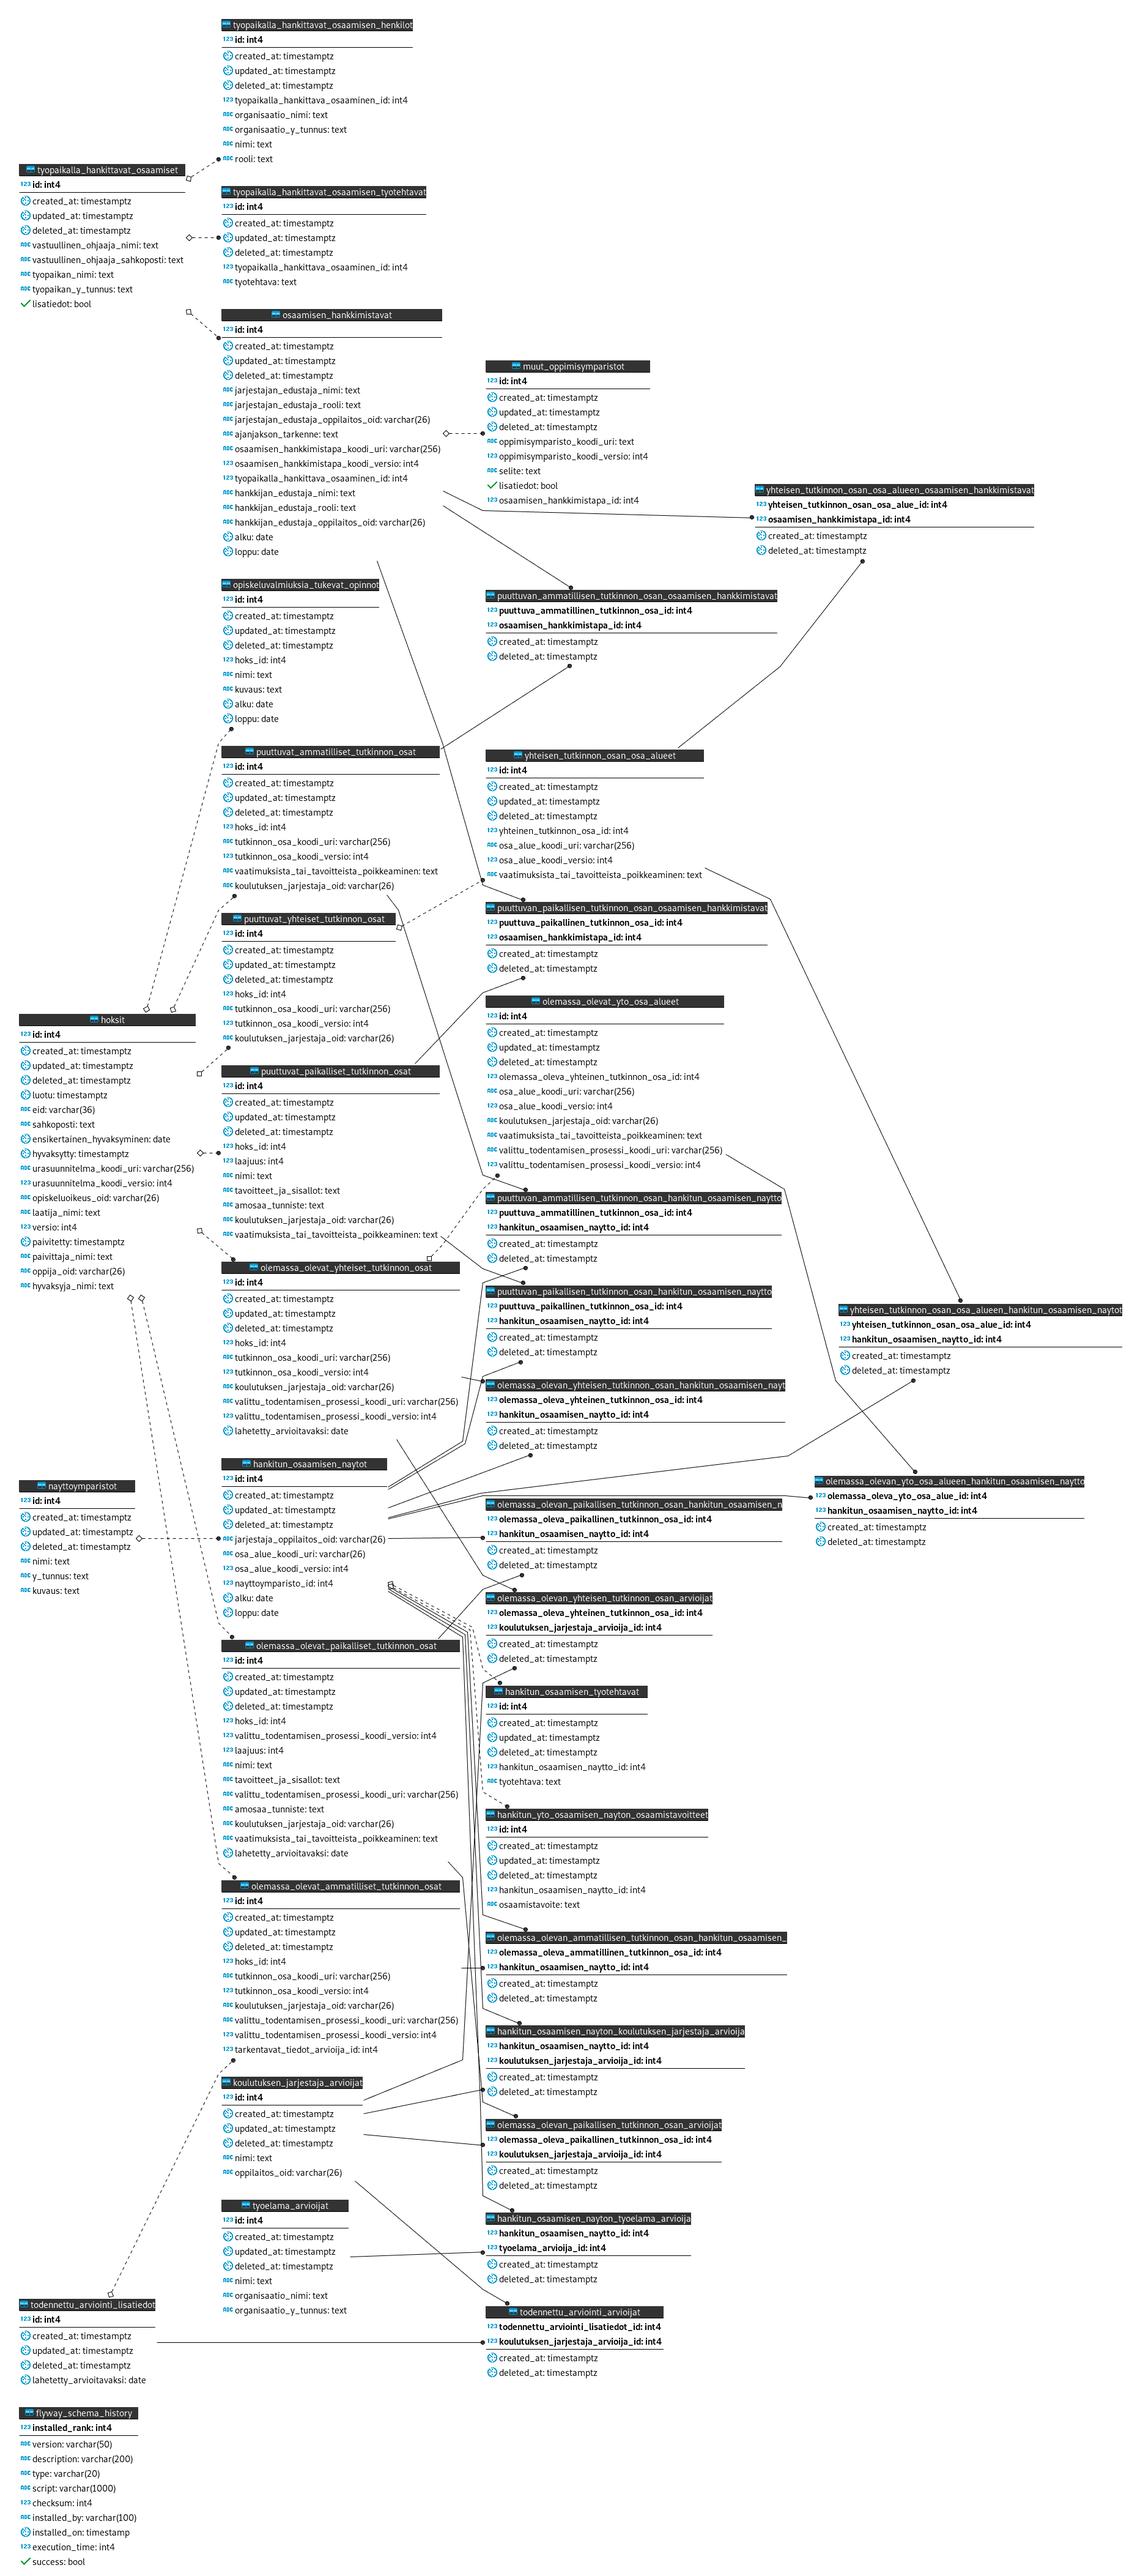
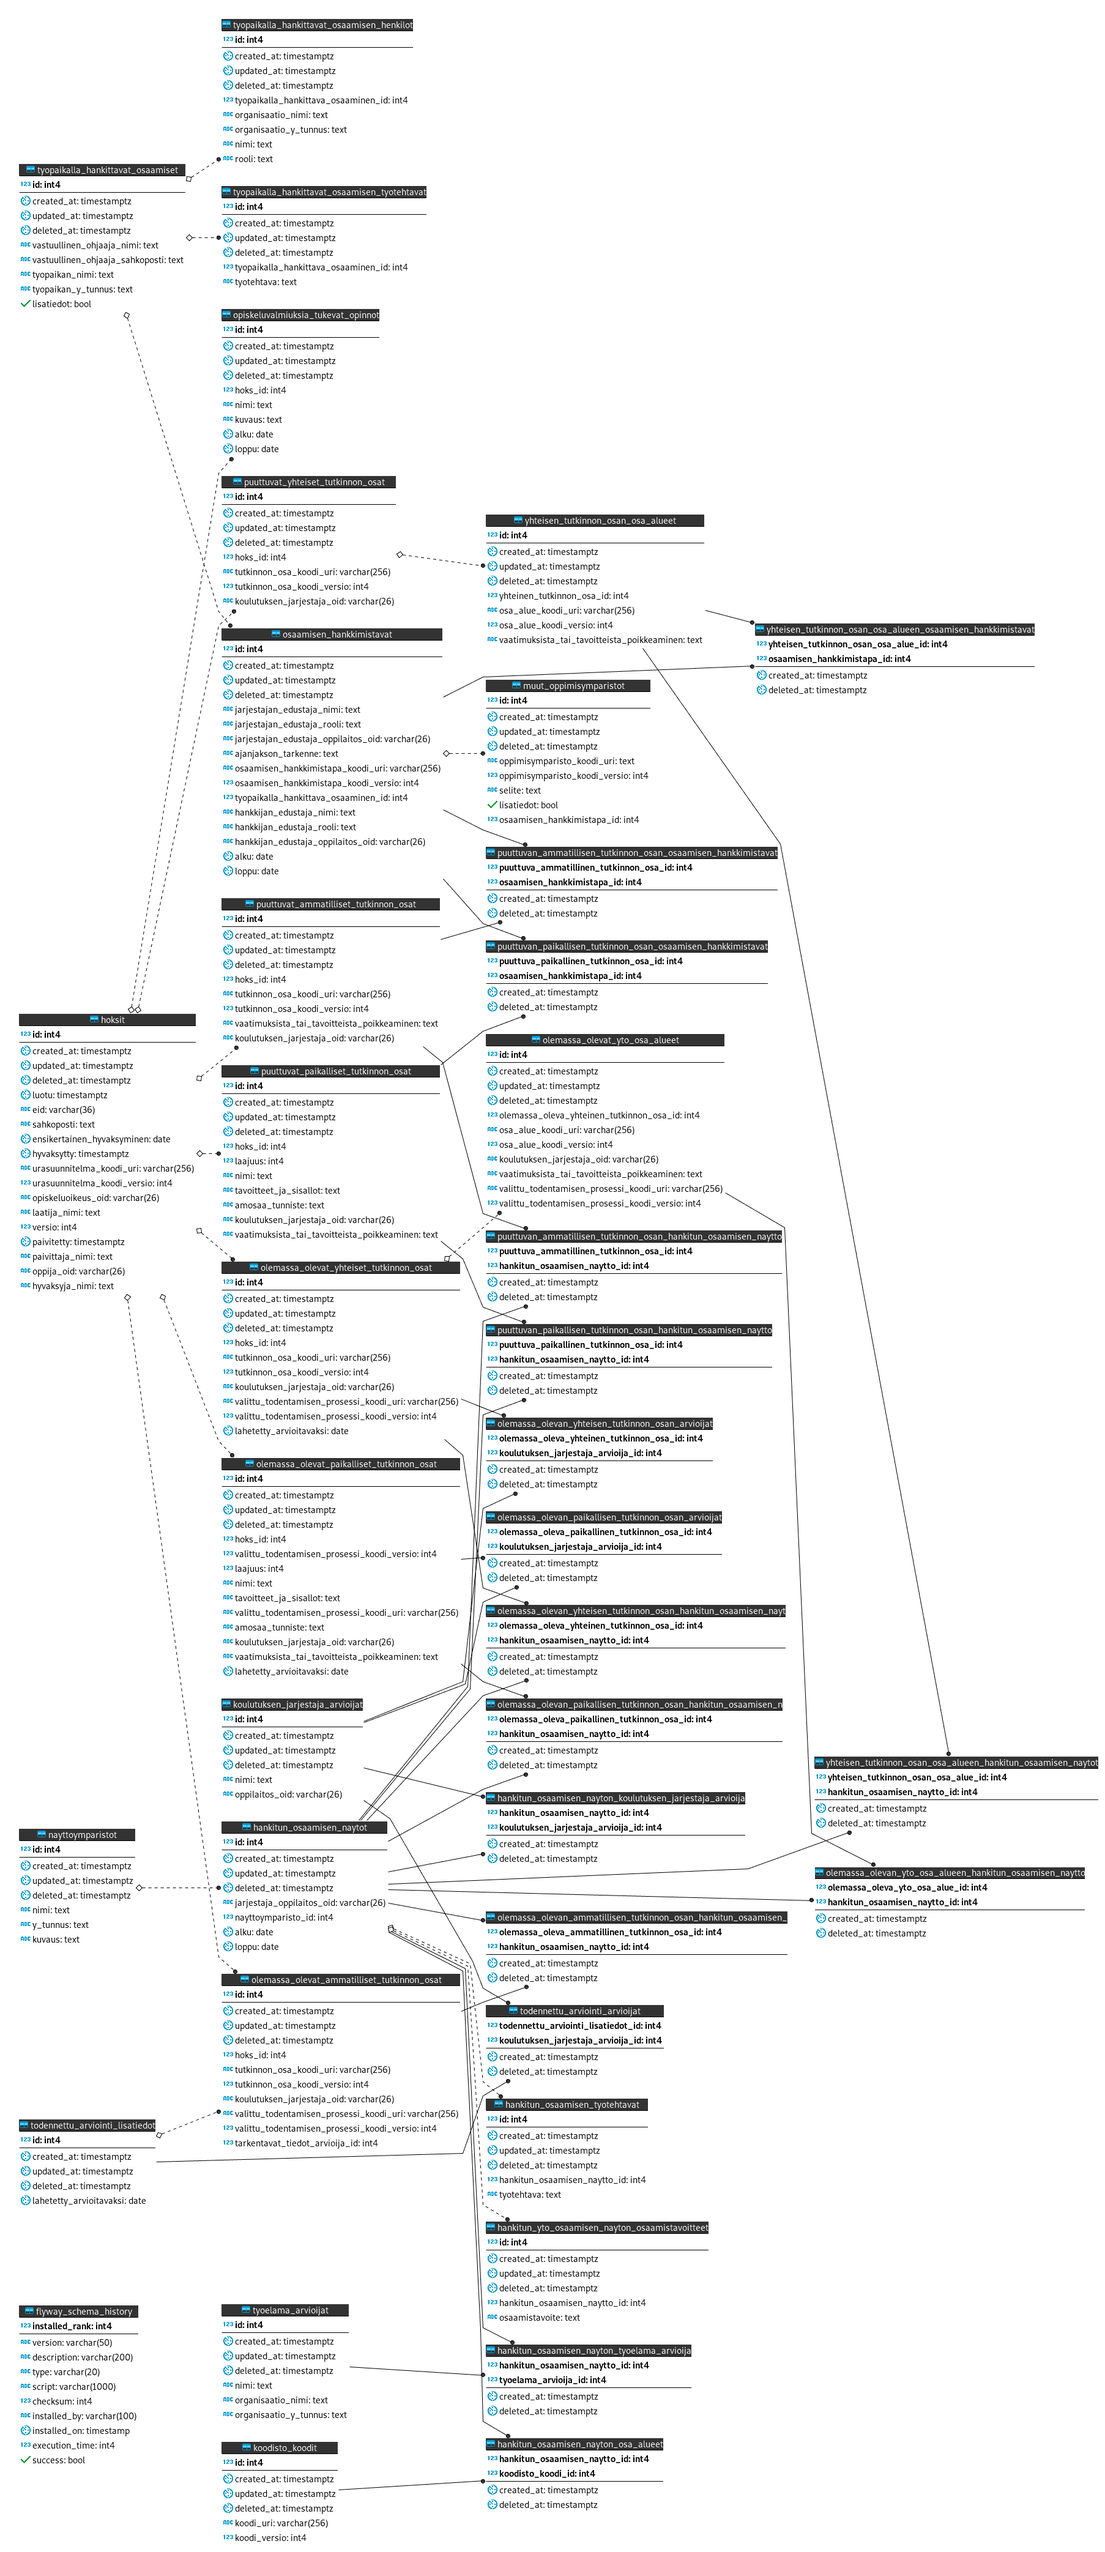
Generate docs

diff --git a/resources/public/hoks-doc/index.html b/resources/public/hoks-doc/index.html
@@ -1,4 +1,4 @@
-<!doctype html><html lang="fi"><head><meta charset="utf-8" /><title>eHOKS RESTful kehitysdokumentaatio</title><style>table {border-collapse: collapse;}table, th, td {border: 1px solid black;}.model {border-top: 1px solid gray;}</style><link href="https://stackpath.bootstrapcdn.com/bootstrap/4.2.1/css/bootstrap.min.css" rel="stylesheet" /></head><div class="container"><div><h1>HOKS doc</h1><p>Automaattisesti generoitu dokumentaatiotiedosto HOKS-tietomallinesittämiseen.</p><p>Tämä dokumentaatio keskittyy toistaiseksi ainoastaan HOKS-tietomallinesittämiseen.</p><p>Katso myös <a href="https://github.com/Opetushallitus/ehoks/blob/master/doc/hoks.md">HOKS API doc</a> dokumentaatio.</p><p>Generoitu 11.04.2019 09.36</p></div><div><div><div><div class="model" id="HOKSModel"><div><h3>HOKSModel</h3><p>Henkilökohtainen osaamisen kehittämissuunnitelmadokumentti</p></div><table><tr><th>Nimi</th><th>Selite</th><th>Luku</th><th>Luonti</th><th>Päivitys</th><th>Osapäivitys</th></tr><tr><td>urasuunnitelma-koodi-versio</td><td>Opiskelijan tavoitteen Koodisto-koodin versio</td><td><span>Kokonaisluku, valinnainen</span></td><td><span>Kokonaisluku, valinnainen</span></td><td><span>Kokonaisluku, valinnainen</span></td><td><span>Kokonaisluku, valinnainen</span></td></tr><tr><td>ensikertainen-hyvaksyminen</td><td>HOKS-dokumentin ensimmäinen hyväksymisaika
+<!doctype html><html lang="fi"><head><meta charset="utf-8" /><title>eHOKS RESTful kehitysdokumentaatio</title><style>table {border-collapse: collapse;}table, th, td {border: 1px solid black;}.model {border-top: 1px solid gray;}</style><link href="https://stackpath.bootstrapcdn.com/bootstrap/4.2.1/css/bootstrap.min.css" rel="stylesheet" /></head><div class="container"><div><h1>HOKS doc</h1><p>Automaattisesti generoitu dokumentaatiotiedosto HOKS-tietomallinesittämiseen.</p><p>Tämä dokumentaatio keskittyy toistaiseksi ainoastaan HOKS-tietomallinesittämiseen.</p><p>Katso myös <a href="https://github.com/Opetushallitus/ehoks/blob/master/doc/hoks.md">HOKS API doc</a> dokumentaatio.</p><p>Generoitu 15.04.2019 12.28</p></div><div><div><div><div class="model" id="HOKSModel"><div><h3>HOKSModel</h3><p>Henkilökohtainen osaamisen kehittämissuunnitelmadokumentti</p></div><table><tr><th>Nimi</th><th>Selite</th><th>Luku</th><th>Luonti</th><th>Päivitys</th><th>Osapäivitys</th></tr><tr><td>urasuunnitelma-koodi-versio</td><td>Opiskelijan tavoitteen Koodisto-koodin versio</td><td><span>Kokonaisluku, valinnainen</span></td><td><span>Kokonaisluku, valinnainen</span></td><td><span>Kokonaisluku, valinnainen</span></td><td><span>Kokonaisluku, valinnainen</span></td></tr><tr><td>ensikertainen-hyvaksyminen</td><td>HOKS-dokumentin ensimmäinen hyväksymisaika
                                 muodossa YYYY-MM-DD</td><td><span>Päivämäärä, pakollinen</span></td><td><span>Päivämäärä, pakollinen</span></td><td><span>Päivämäärä, pakollinen</span></td><td><span>Päivämäärä, valinnainen</span></td></tr><tr><td>olemassa-olevat-ammatilliset-tutkinnon-osat</td><td>Olemassa oleva ammatillinen osaaminen</td><td><span><span>[<a href="https://github.com/Opetushallitus/ehoks/blob/master/doc/hoks.md#OlemassaOlevaAmmatillinenTutkinnonOsa">OlemassaOlevaAmmatillinenTutkinnonOsa</a>]</span>, valinnainen</span></td><td><span><span>[<a href="https://github.com/Opetushallitus/ehoks/blob/master/doc/hoks.md#OlemassaOlevaAmmatillinenTutkinnonOsa">OlemassaOlevaAmmatillinenTutkinnonOsa</a>]</span>, valinnainen</span></td><td><span><span>[<a href="https://github.com/Opetushallitus/ehoks/blob/master/doc/hoks.md#OlemassaOlevaAmmatillinenTutkinnonOsa">OlemassaOlevaAmmatillinenTutkinnonOsa</a>]</span>, valinnainen</span></td><td><span><span>[<a href="https://github.com/Opetushallitus/ehoks/blob/master/doc/hoks.md#OlemassaOlevaAmmatillinenTutkinnonOsa">OlemassaOlevaAmmatillinenTutkinnonOsa</a>]</span>, valinnainen</span></td></tr><tr><td>sahkoposti</td><td>Oppijan sähköposti, merkkijono.</td><td><span>Merkkijono, valinnainen</span></td><td><span>Merkkijono, valinnainen</span></td><td><span>Merkkijono, valinnainen</span></td><td><span>Merkkijono, valinnainen</span></td></tr><tr><td>luotu</td><td>HOKS-dokumentin luontiaika muodossa YYYY-MM-DDTHH:mm:ss.sssZ</td><td><span>Aikaleima, valinnainen</span></td><td><span>Aikaleima, valinnainen</span></td><td><span>Aikaleima, valinnainen</span></td><td><span>Aikaleima, valinnainen</span></td></tr><tr><td>puuttuvat-paikalliset-tutkinnon-osat</td><td>Puuttuvat paikallisen tutkinnon osat</td><td><span><span>[<a href="https://github.com/Opetushallitus/ehoks/blob/master/doc/hoks.md#PuuttuvaPaikallinenTutkinnonOsa">PuuttuvaPaikallinenTutkinnonOsa</a>]</span>, valinnainen</span></td><td><span><span>[<a href="https://github.com/Opetushallitus/ehoks/blob/master/doc/hoks.md#PuuttuvaPaikallinenTutkinnonOsa">PuuttuvaPaikallinenTutkinnonOsa</a>]</span>, valinnainen</span></td><td><span><span>[<a href="https://github.com/Opetushallitus/ehoks/blob/master/doc/hoks.md#PuuttuvaPaikallinenTutkinnonOsa">PuuttuvaPaikallinenTutkinnonOsa</a>]</span>, valinnainen</span></td><td><span><span>[<a href="https://github.com/Opetushallitus/ehoks/blob/master/doc/hoks.md#PuuttuvaPaikallinenTutkinnonOsa">PuuttuvaPaikallinenTutkinnonOsa</a>]</span>, valinnainen</span></td></tr><tr><td>urasuunnitelma-koodi-uri</td><td>Opiskelijan tavoitteen Koodisto-koodi-URI, koodisto
     Urasuunnitelma, muotoa urasuunnitelma_xxxx, esim.
     urasuunnitelma_0001</td><td><span>#"^urasuunnitelma_\d{4}$", valinnainen</span></td><td><span>#"^urasuunnitelma_\d{4}$", valinnainen</span></td><td><span>#"^urasuunnitelma_\d{4}$", valinnainen</span></td><td><span>#"^urasuunnitelma_\d{4}$", valinnainen</span></td></tr><tr><td>puuttuvat-ammatilliset-tutkinnon-osat</td><td>Puuttuvan ammatillisen osaamisen hankkimisen tiedot</td><td><span><span>[<a href="https://github.com/Opetushallitus/ehoks/blob/master/doc/hoks.md#PuuttuvaAmmatillinenOsaaminen">PuuttuvaAmmatillinenOsaaminen</a>]</span>, valinnainen</span></td><td><span><span>[<a href="https://github.com/Opetushallitus/ehoks/blob/master/doc/hoks.md#PuuttuvaAmmatillinenOsaaminen">PuuttuvaAmmatillinenOsaaminen</a>]</span>, valinnainen</span></td><td><span><span>[<a href="https://github.com/Opetushallitus/ehoks/blob/master/doc/hoks.md#PuuttuvaAmmatillinenOsaaminen">PuuttuvaAmmatillinenOsaaminen</a>]</span>, valinnainen</span></td><td><span><span>[<a href="https://github.com/Opetushallitus/ehoks/blob/master/doc/hoks.md#PuuttuvaAmmatillinenOsaaminen">PuuttuvaAmmatillinenOsaaminen</a>]</span>, valinnainen</span></td></tr><tr><td>hyvaksytty</td><td>HOKS-dokumentin hyväksymisaika muodossa YYYY-MM-DDTHH:mm:ss.sssZ</td><td><span>Aikaleima, valinnainen</span></td><td><span>Aikaleima, valinnainen</span></td><td><span>Aikaleima, valinnainen</span></td><td><span>Aikaleima, valinnainen</span></td></tr><tr><td>olemassa-olevat-yhteiset-tutkinnon-osat</td><td>Olemassa olevat yhteiset tutkinnon osat (YTO)</td><td><span><span>[<a href="https://github.com/Opetushallitus/ehoks/blob/master/doc/hoks.md#OlemassaOlevaYhteinenTutkinnonOsa">OlemassaOlevaYhteinenTutkinnonOsa</a>]</span>, valinnainen</span></td><td><span><span>[<a href="https://github.com/Opetushallitus/ehoks/blob/master/doc/hoks.md#OlemassaOlevaYhteinenTutkinnonOsa">OlemassaOlevaYhteinenTutkinnonOsa</a>]</span>, valinnainen</span></td><td><span><span>[<a href="https://github.com/Opetushallitus/ehoks/blob/master/doc/hoks.md#OlemassaOlevaYhteinenTutkinnonOsa">OlemassaOlevaYhteinenTutkinnonOsa</a>]</span>, valinnainen</span></td><td><span><span>[<a href="https://github.com/Opetushallitus/ehoks/blob/master/doc/hoks.md#OlemassaOlevaYhteinenTutkinnonOsa">OlemassaOlevaYhteinenTutkinnonOsa</a>]</span>, valinnainen</span></td></tr><tr><td>opiskeluoikeus-oid</td><td>Opiskeluoikeuden oid-tunniste Koski-järjestelmässä muotoa

diff --git a/doc/hoks.md b/doc/hoks.md
@@ -1,7 +1,7 @@
 # HOKS API doc
 Automaattisesti generoitu dokumentaatiotiedosto HOKS-tietomallin esittämiseen.
 
-Generoitu 11.04.2019 09.36
+Generoitu 15.04.2019 12.28
 
 Katso myös [HOKS doc](https://testiopintopolku.fi/ehoks-backend/hoks-doc/index.html)
 
@@ -163,12 +163,11 @@ Hankitun paikallisen osaamisen osoittaminen: Näyttö tai muu osaamisen
 
 | Nimi | Tyyppi | Selite | Vaaditaan |
 | ---- | ------ | ------ | --------- |
-| osa-alue-koodi-uri | Merkkijono, esim. ammatillisenoppiaineet_aa | Suoritettavan tutkinnon osan näyttöön sisältyvänyton osa-alueen Koodisto-koodi-URI<br>         eperusteet-järjestelmässä muotoa ammatillisenoppiaineet_xxxesim. ammatillisenoppiaineet_etk | Ei |
 | koulutuksen-jarjestaja-arvioijat | [[KoulutuksenJarjestajaArvioija](#KoulutuksenJarjestajaArvioija)] | Näytön tai osaamisen osoittamisen<br>    arvioijat | Ei |
 | jarjestaja | [NaytonJarjestaja](#NaytonJarjestaja) | Näytön tai osaamisen osoittamisen järjestäjä | Ei |
-| osa-alue-koodi-versio | Kokonaisluku | Koodisto-koodin versio, koodistolle yton osa-alue | Ei |
 | nayttoymparisto | [Nayttoymparisto](#Nayttoymparisto) | Organisaatio, jossa näyttö tai osaamisen osoittaminen annetaan | Kyllä |
 | tyoelama-arvioijat | [[TyoelamaArvioija](#TyoelamaArvioija)] | Näytön tai<br>    osaamisen osoittamisen arvioijat | Ei |
+| osa-alueet | [[KoodistoKoodi](#KoodistoKoodi)] | Suoritettavan tutkinnon osan näyttöön sisältyvänyton osa-alueiden Koodisto-koodi-URIt<br>         eperusteet-järjestelmässä muotoa ammatillisenoppiaineet_xxxesim. ammatillisenoppiaineet_etk | Ei |
 | keskeiset-tyotehtavat-naytto | [Merkkijono] | Keskeiset<br>    työtehtävät | Ei |
 | alku | Päivämäärä | Näytön tai osaamisen osoittamisen alkupäivämäärä muodossa<br>    YYYY-MM-DD | Kyllä |
 | loppu | Päivämäärä | Näytön tai osaamisen osoittamisen loppupäivämäärä muodossa<br>    YYYY-MM-DD | Kyllä |
@@ -265,12 +264,11 @@ Hankitun osaamisen osoittaminen: Näyttö tai muu osaamisen
 
 | Nimi | Tyyppi | Selite | Vaaditaan |
 | ---- | ------ | ------ | --------- |
-| osa-alue-koodi-uri | Merkkijono, esim. ammatillisenoppiaineet_aa | Suoritettavan tutkinnon osan näyttöön sisältyvänyton osa-alueen Koodisto-koodi-URI<br>         eperusteet-järjestelmässä muotoa ammatillisenoppiaineet_xxxesim. ammatillisenoppiaineet_etk | Ei |
 | koulutuksen-jarjestaja-arvioijat | [[KoulutuksenJarjestajaArvioija](#KoulutuksenJarjestajaArvioija)] | Näytön tai osaamisen osoittamisen<br>    arvioijat | Ei |
 | jarjestaja | [NaytonJarjestaja](#NaytonJarjestaja) | Näytön tai osaamisen osoittamisen järjestäjä | Ei |
-| osa-alue-koodi-versio | Kokonaisluku | Koodisto-koodin versio, koodistolle yton osa-alue | Ei |
 | nayttoymparisto | [Nayttoymparisto](#Nayttoymparisto) | Organisaatio, jossa näyttö tai osaamisen osoittaminen annetaan | Kyllä |
 | tyoelama-arvioijat | [[TyoelamaArvioija](#TyoelamaArvioija)] | Näytön tai<br>    osaamisen osoittamisen arvioijat | Ei |
+| osa-alueet | [[KoodistoKoodi](#KoodistoKoodi)] | Suoritettavan tutkinnon osan näyttöön sisältyvänyton osa-alueiden Koodisto-koodi-URIt<br>         eperusteet-järjestelmässä muotoa ammatillisenoppiaineet_xxxesim. ammatillisenoppiaineet_etk | Ei |
 | keskeiset-tyotehtavat-naytto | [Merkkijono] | Keskeiset<br>    työtehtävät | Ei |
 | alku | Päivämäärä | Näytön tai osaamisen osoittamisen alkupäivämäärä muodossa<br>    YYYY-MM-DD | Kyllä |
 | loppu | Päivämäärä | Näytön tai osaamisen osoittamisen loppupäivämäärä muodossa<br>    YYYY-MM-DD | Kyllä |
@@ -285,6 +283,15 @@ Opiskeluvalmiuksia tukevien opintojen tiedot uutta merkintää luotaessa (POST)
 | kuvaus | Merkkijono | Opintojen kuvaus | Kyllä |
 | alku | Päivämäärä | Opintojen alkupäivämäärä muodossa YYYY-MM-DD | Kyllä |
 | loppu | Päivämäärä | Opintojen loppupäivämäärä muodossa YYYY-MM-DD | Kyllä |
+
+### KoodistoKoodi  
+
+Koodisto Koodi
+
+| Nimi | Tyyppi | Selite | Vaaditaan |
+| ---- | ------ | ------ | --------- |
+| koodi-uri | Merkkijono | Koodisto-koodi URI | Kyllä |
+| koodi-versio | Kokonaisluku | Koodisto-koodin versio | Kyllä |
 
 ### Organisaatio  
 
@@ -509,13 +516,12 @@ Hankitun osaamisen osoittaminen: Näyttö tai muu osaamisen
 
 | Nimi | Tyyppi | Selite | Vaaditaan |
 | ---- | ------ | ------ | --------- |
-| osa-alue-koodi-uri | Merkkijono, esim. ammatillisenoppiaineet_aa | Suoritettavan tutkinnon osan näyttöön sisältyvänyton osa-alueen Koodisto-koodi-URI<br>         eperusteet-järjestelmässä muotoa ammatillisenoppiaineet_xxxesim. ammatillisenoppiaineet_etk | Ei |
 | koulutuksen-jarjestaja-arvioijat | [[KoulutuksenJarjestajaArvioija](#KoulutuksenJarjestajaArvioija)] | Näytön tai osaamisen osoittamisen<br>    arvioijat | Ei |
 | jarjestaja | [NaytonJarjestaja](#NaytonJarjestaja) | Näytön tai osaamisen osoittamisen järjestäjä | Ei |
 | osaamistavoitteet | [Merkkijono] | Ammattitaitovaatimukset, joiden osaaminen näytössä osoitetaan.Tunnisteen tyyppi voi vielä päivittyä ja tähän saattaa tulla vielä Yksilölliset arvioinnin kriteerit | Ei |
-| osa-alue-koodi-versio | Kokonaisluku | Koodisto-koodin versio, koodistolle yton osa-alue | Ei |
 | nayttoymparisto | [Nayttoymparisto](#Nayttoymparisto) | Organisaatio, jossa näyttö tai osaamisen osoittaminen annetaan | Kyllä |
 | tyoelama-arvioijat | [[TyoelamaArvioija](#TyoelamaArvioija)] | Näytön tai<br>    osaamisen osoittamisen arvioijat | Ei |
+| osa-alueet | [[KoodistoKoodi](#KoodistoKoodi)] | Suoritettavan tutkinnon osan näyttöön sisältyvänyton osa-alueiden Koodisto-koodi-URIt<br>         eperusteet-järjestelmässä muotoa ammatillisenoppiaineet_xxxesim. ammatillisenoppiaineet_etk | Ei |
 | keskeiset-tyotehtavat-naytto | [Merkkijono] | Keskeiset<br>    työtehtävät | Ei |
 | alku | Päivämäärä | Näytön tai osaamisen osoittamisen alkupäivämäärä muodossa<br>    YYYY-MM-DD | Kyllä |
 | loppu | Päivämäärä | Näytön tai osaamisen osoittamisen loppupäivämäärä muodossa<br>    YYYY-MM-DD | Kyllä |
